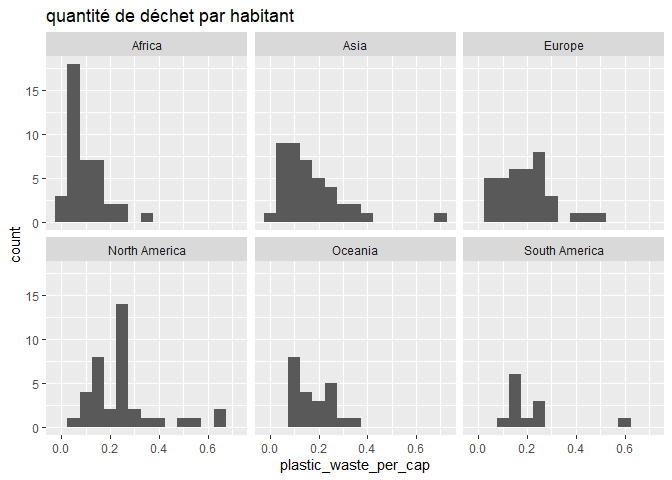
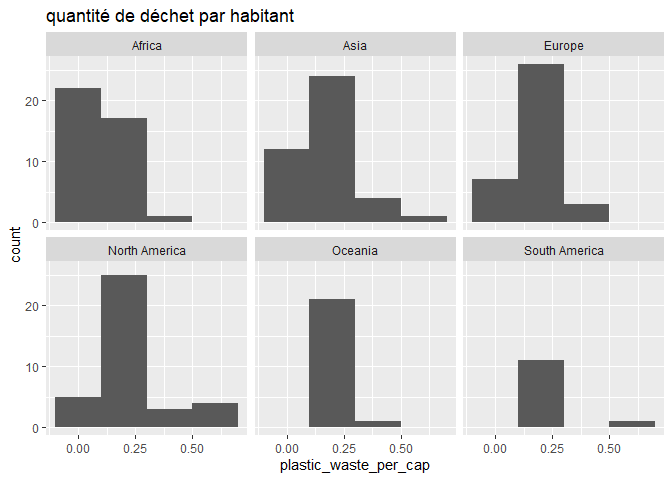
exercice 3 compléter

diff --git a/lab-02.md b/lab-02.md
@@ -27,7 +27,7 @@ plastic_waste <- plastic_waste %>%
 
 ``` r
 ggplot(plastic_waste, aes(x = plastic_waste_per_cap)) +
-  geom_histogram(binwidth = 0.05) +
+  geom_histogram(binwidth = 0.2) +
   facet_wrap(~ continent) +
   labs(title = 'quantité de déchet par habitant')
 ```
@@ -37,21 +37,29 @@ ggplot(plastic_waste, aes(x = plastic_waste_per_cap)) +
 ### Exercise 2
 
 ``` r
-ggplot(plastic_waste, aes(x = plastic_waste_per_cap)) + 
-  geom_density(adjust = 1)
+ggplot(plastic_waste, aes(x = plastic_waste_per_cap,
+                          fill = continent, color = continent)) + 
+  geom_density(adjust = 1,
+               alpha = 0.4)
 ```
 
 ![](lab-02_files/figure-gfm/plastic-waste-density-1.png)<!-- -->
 
-Réponse à la question…
+Car le réglage color et fill peut être utiliser dans de nombreux
+graphique(général) et est spécifique aux donnés utiliser. Le réglage
+alpha est spécifique au graphique de densité, donc affecte seulement les
+courbes et non les donnés.
 
 ### Exercise 3
 
 Boxplot:
 
 ``` r
-# insert code here
+ggplot(plastic_waste, aes(x = continent, y = plastic_waste_per_cap)) +
+  geom_boxplot()
 ```
+
+![](lab-02_files/figure-gfm/plastic-waste-boxplot-1.png)<!-- -->
 
 Violin plot:
 
